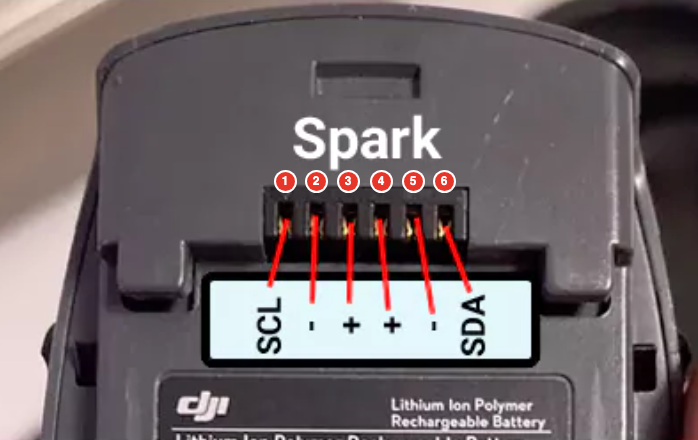
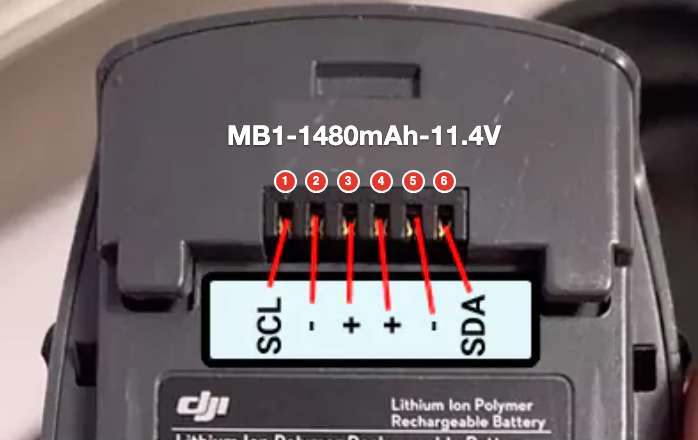
docs: label pinout image with the Spark battery model number
Replace the "Spark" caption with the battery model MB1-1480mAh-11.4V.

Changed region(s): [[0.3009, 0.2659, 0.7221, 0.3841]]

diff --git a/README.md b/README.md
@@ -23,7 +23,7 @@ were recovered** with the 12 V supply, `pf_pump.sh` and `monitor_charge.sh`.
 | `docs/monitor_charge.png` | Screenshot of the monitor during a real precharge |
 | `docs/wiring_12v.svg` | Wiring with a 12 V supply and 100 Ω (tested) |
 | `docs/wiring_9v.svg` | Wiring with a 9 V battery (alternative) |
-| `docs/spark_pinout.png` | Spark battery connector with pin numbers |
+| `docs/spark_pinout.png` | Spark battery (MB1-1480mAh-11.4V) connector with pin numbers |
 
 ## The problem
 
@@ -77,7 +77,7 @@ Pins 2 and 5 are the battery's two ground pins; check with a multimeter
 
 Battery connector, contacts facing you, left to right:
 
-![Spark battery connector pinout](docs/spark_pinout.png)
+![Spark battery (MB1-1480mAh-11.4V) connector pinout](docs/spark_pinout.png)
 
 ```
   1     2     3     4     5     6
